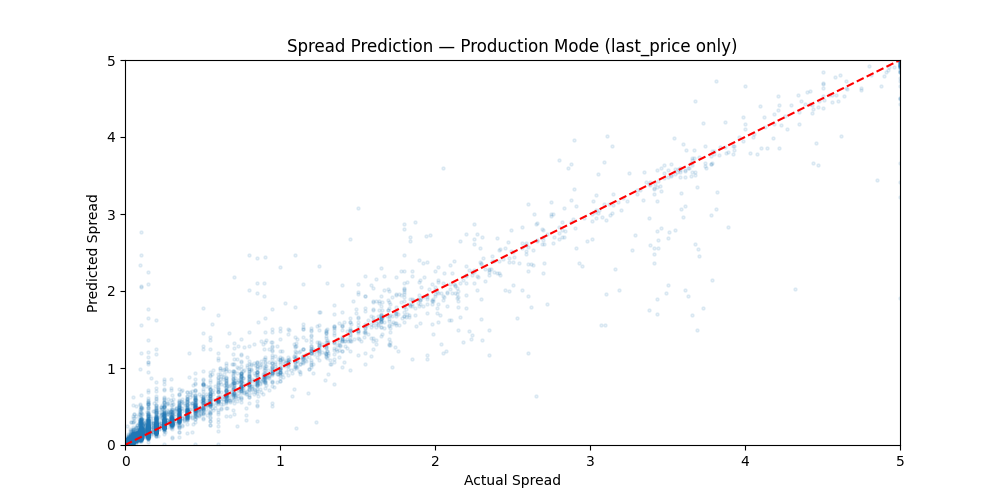
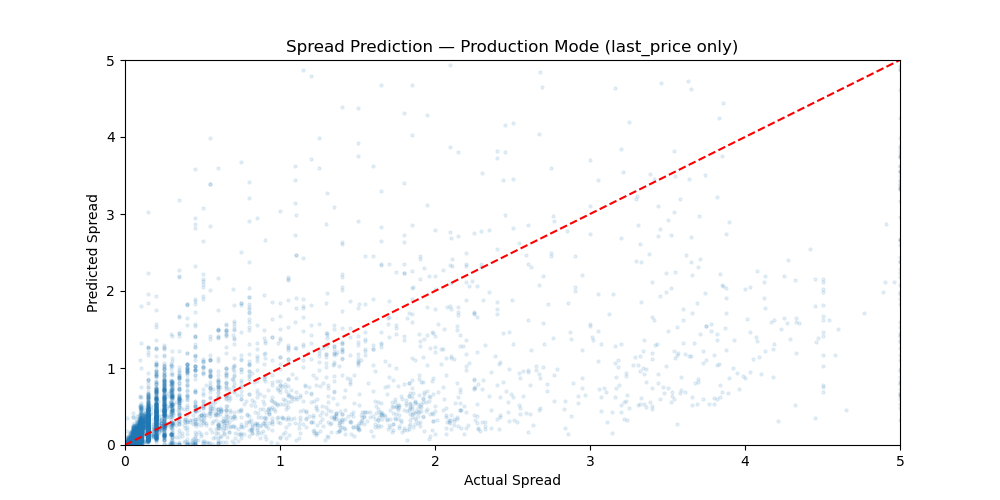
Process

diff --git a/train_spread_model.py b/train_spread_model.py
@@ -4,6 +4,7 @@ import glob
 import os
 import ctypes
 from scipy.optimize import curve_fit
+import re
 
 # Load C++ Library
 lib = ctypes.CDLL('./libbs.so')
@@ -26,13 +27,27 @@ def train_model():
     dfs = []
     for f in files:
         try:
+            # ONLY use files with "options" in the name (e.g., AAPL_options.csv)
+            # Ignore other files like AAPL-2026-02-20.csv
+            if "options" not in f:
+                continue
+
+            # Determine group ID
+            # _2.csv -> 2, _3.csv -> 3, _4.csv -> 4, else 1 (no suffix)
+            match = re.search(r'_(\d+)\.csv$', f)
+            if match:
+                group_id = int(match.group(1))
+            else:
+                group_id = 1
+            
             df = pd.read_csv(f)
+            df['group_id'] = group_id
             dfs.append(df)
         except Exception as e:
             print(f"Skipping {f}: {e}")
             
     if not dfs:
-        print("No data found.")
+        print("No 'options' data found.")
         return
 
     full_df = pd.concat(dfs, ignore_index=True)
@@ -79,7 +94,7 @@ def train_model():
         time_years = max(row['time_to_expire_years'], 0.001)
         
         iv = fast_iv(
-            row['lastPrice'], 
+            row['mid'], 
             row['underlyingPrice'], 
             row['strike'], 
             time_years, 
@@ -93,12 +108,23 @@ def train_model():
     # Filter valid IV
     full_df = full_df[(full_df['iv'] > 0.01) & (full_df['iv'] < 5.0)].copy()
     
-    print(f"Training on {len(full_df)} rows.")
     
-    X_data = (full_df['moneyness'].values, full_df['time_to_expire_years'].values, full_df['iv'].values)
-    y_data = full_df['relative_spread'].values
+    # Split into Train (Group 1-3) and Test (Group 4)
+    train_df = full_df[full_df['group_id'].isin([1, 2, 3])].copy()
+    test_df = full_df[full_df['group_id'] == 4].copy()
     
-    popt, pcov = curve_fit(polynomial_model, X_data, y_data)
+    print(f"Total rows: {len(full_df)}")
+    print(f"Training on {len(train_df)} rows (Groups 1-3).")
+    print(f"Testing on {len(test_df)} rows (Group 4).")
+    
+    if len(train_df) == 0:
+        print("Error: No training data available.")
+        return
+
+    X_train = (train_df['moneyness'].values, train_df['time_to_expire_years'].values, train_df['iv'].values)
+    y_train = train_df['relative_spread'].values
+    
+    popt, pcov = curve_fit(polynomial_model, X_train, y_train)
     
     print("\n--- Model Coefficients ---")
     coeffs = {
@@ -112,9 +138,20 @@ def train_model():
     print("\nCopy this dictionary into your prediction script:")
     print(coeffs)
     
-    y_pred = polynomial_model(X_data, *popt)
-    mae = np.mean(np.abs(y_pred - y_data))
-    print(f"\nMean Absolute Error (Relative Spread): {mae:.4f}")
+    # Training Error
+    y_train_pred = polynomial_model(X_train, *popt)
+    mae_train = np.mean(np.abs(y_train_pred - y_train))
+    print(f"\nTraining MAE (Relative Spread): {mae_train:.4f}")
+    
+    # Testing Error
+    if len(test_df) > 0:
+        X_test = (test_df['moneyness'].values, test_df['time_to_expire_years'].values, test_df['iv'].values)
+        y_test = test_df['relative_spread'].values
+        y_test_pred = polynomial_model(X_test, *popt)
+        mae_test = np.mean(np.abs(y_test_pred - y_test))
+        print(f"Testing MAE (Group 4) (Relative Spread): {mae_test:.4f}")
+    else:
+        print("No testing data available for Group 4.")
 
 if __name__ == "__main__":
     train_model()

diff --git a/estimate_fair_value_poly.py b/estimate_fair_value_poly.py
@@ -14,13 +14,13 @@ def fast_iv(price, S, K, T, r, is_call):
 # Model Coefficients (Trained on SPY, QQQ, NVDA)
 # Model: RelativeSpread = b0 + b1*M + b2*T + b3*IV + b4*M^2 + b5*T^2 + b6*T*IV
 COEFFS = {
-    'b0': 0.08435910157616279, 
-    'b1': -0.14138231593843822, 
-    'b2': 0.015237941763599355, 
-    'b3': 0.016146873728418405, 
-    'b4': 0.06674618886979494, 
-    'b5': 0.0012808918801879127, 
-    'b6': -0.04291380581474171
+    'b0': 0.093480, 
+    'b1': -0.153181, 
+    'b2': 0.012322, 
+    'b3': 0.012915, 
+    'b4': 0.071723, 
+    'b5': 0.002246, 
+    'b6': -0.042443
 }
 
 def predict_relative_spread(moneyness, time_to_expire_years, iv):

diff --git a/estimate_fair_value.py b/estimate_fair_value.py
@@ -230,8 +230,8 @@ def predict_spread_xgb(moneyness, time_to_expire_years, iv, gamma, vega, delta, 
 # IMPORTANT: These must match the coefficients used in train_xgboost_model.py
 # because the XGBoost model predicts residuals relative to this baseline.
 POLY_COEFFS = {
-    'b0': 0.084359, 'b1': -0.141382, 'b2': 0.015238, 
-    'b3': 0.016147, 'b4': 0.067123, 'b5': 0.002284, 'b6': -0.039646
+    'b0': 0.093480, 'b1': -0.153181, 'b2': 0.012322, 
+    'b3': 0.012915, 'b4': 0.071723, 'b5': 0.002246, 'b6': -0.042443
 }
 
 def estimate_fair_value(last_price, strike, underlying_price, days_to_expire, option_type='call'):

diff --git a/verify_prediction.py b/verify_prediction.py
@@ -89,7 +89,8 @@ def main():
     dfs = []
     
     for t in check_tickers:
-        res = verify_on_ticker(t, f"data/{t}_options.csv")
+        # Use Group 4 (Test Set) for verification
+        res = verify_on_ticker(t, f"data/{t}_options_4.csv")
         if res is not None:
             res['Ticker'] = t
             dfs.append(res)
